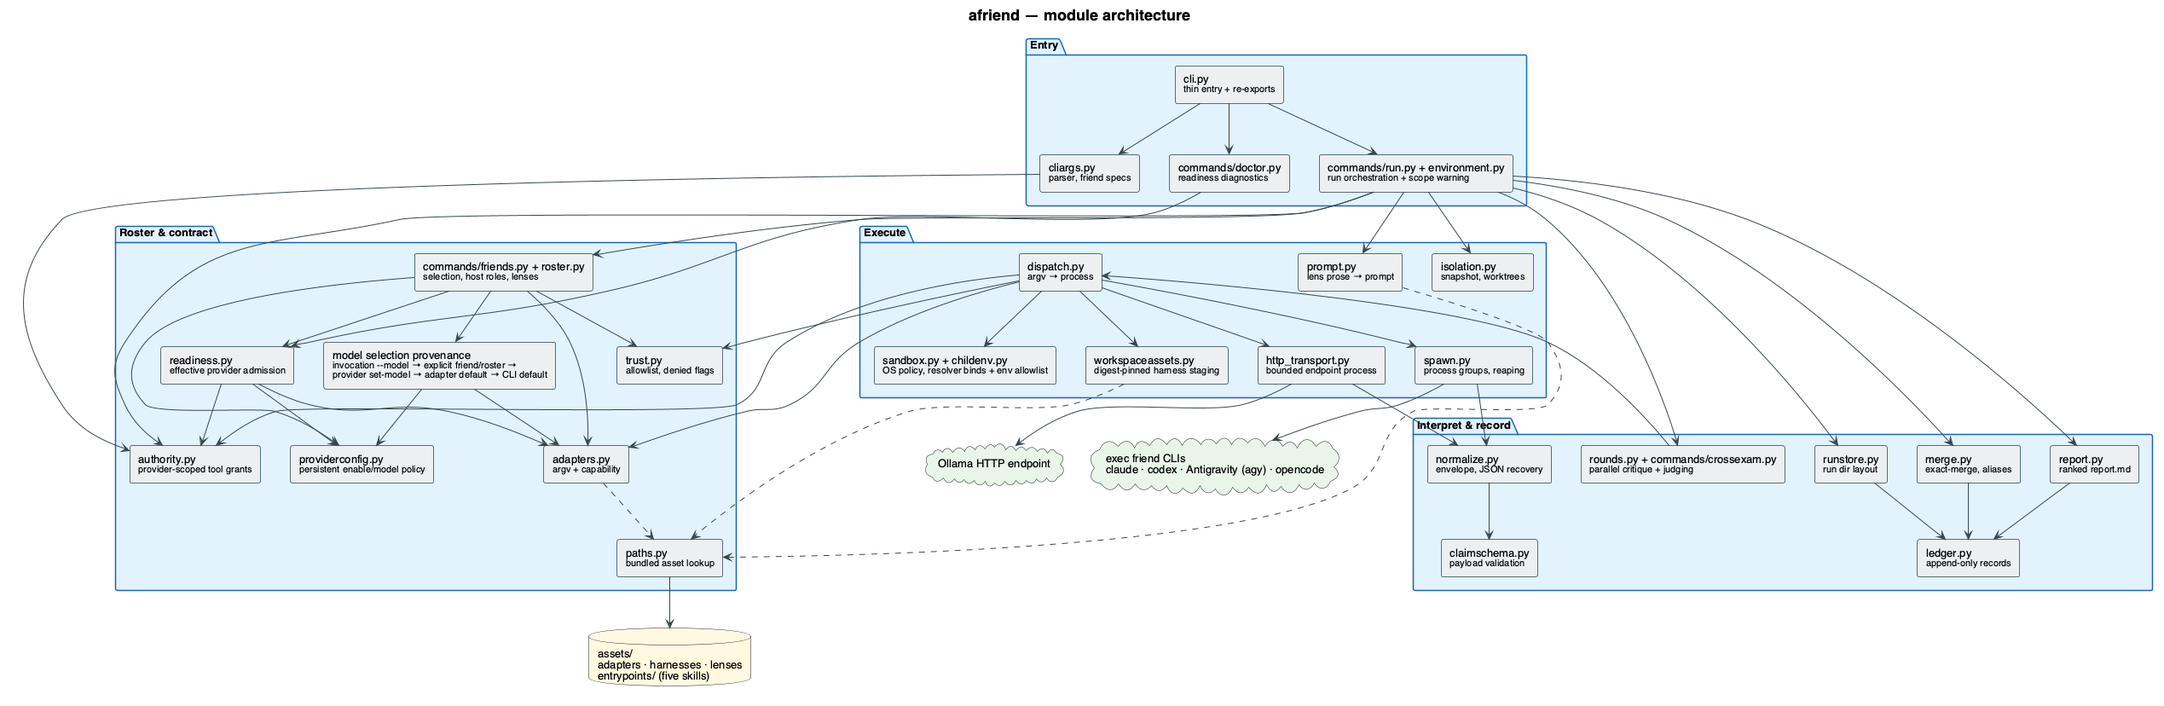
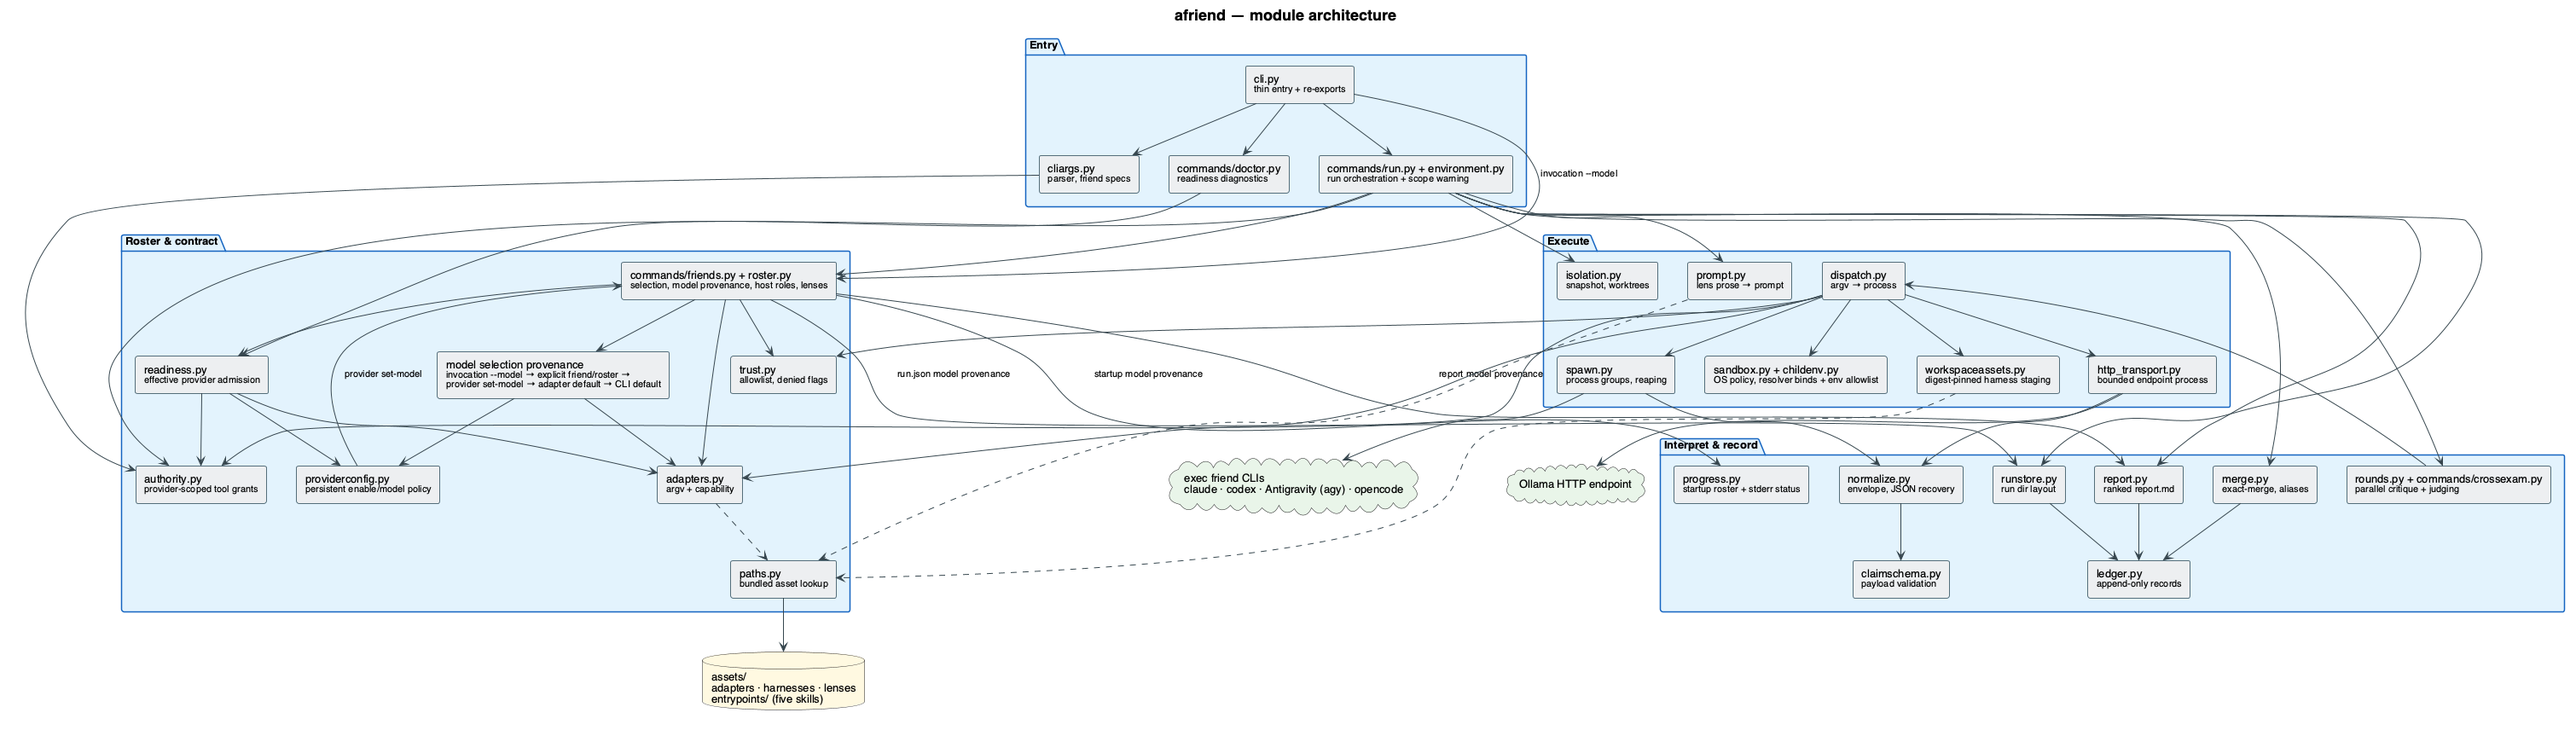
docs: clarify unset model provenance

Changed region(s): [[0.0311, 0.0, 0.9961, 0.8454], [0.249, 0.8756, 0.3735, 0.9662]]

diff --git a/tests/test_docs.py b/tests/test_docs.py
@@ -635,6 +635,32 @@ def test_live_markdown_preserves_model_selection_provenance_contract():
     assert troubleshooting_link in index
 
 
+def test_live_model_provenance_docs_cover_unset_opencode_and_the_startup_flow():
+    readme = REPO.joinpath("README.md").read_text()
+    router = (AFRIEND / "SKILL.md").read_text()
+    modes = (AFRIEND / "references" / "modes.md").read_text()
+    component_source = REPO.joinpath("docs", "architecture", "components.puml").read_text()
+
+    unset_opencode = "OpenCode CLI default (no --model passed; exact model not verified)"
+    for markdown in (readme, router, modes):
+        assert unset_opencode in markdown
+
+    assert "built-in default" in readme
+    assert "`--ignore-user-config`" in readme
+    assert "exact backend model remains unverified" in readme
+
+    for flow in (
+        "commands/friends.py + roster.py\\n<size:11>selection, model provenance, host roles, lenses</size>",
+        "progress.py",
+        "CLI --> ROSTER : invocation --model",
+        "PCONFIG --> ROSTER : provider set-model",
+        "ROSTER --> PROGRESS : startup model provenance",
+        "ROSTER --> STORE : run.json model provenance",
+        "ROSTER --> REPORT : report model provenance",
+    ):
+        assert flow in component_source
+
+
 def test_shipped_docs_state_the_one_friend_mode_contract_exactly():
     readme = " ".join(REPO.joinpath("README.md").read_text().lower().split())
     skill = " ".join((AFRIEND / "SKILL.md").read_text().lower().split())

diff --git a/README.md b/README.md
@@ -10,7 +10,7 @@
 [![Python](https://img.shields.io/badge/python-3.11%2B-blue)](pyproject.toml)
 [![Dependencies](https://img.shields.io/badge/runtime%20deps-none-brightgreen)](pyproject.toml)
 [![License](https://img.shields.io/badge/license-MIT-green)](LICENSE)
-[![Tests](https://img.shields.io/badge/tests-2296-brightgreen)](tests/)
+[![Tests](https://img.shields.io/badge/tests-2297-brightgreen)](tests/)
 
 It automates a workflow you may already do by hand: run a review, paste the
 findings into a different model, ask whether they hold up, carry the argument
@@ -292,6 +292,8 @@ when its generic CLI default is not the review you intend:
 afriend run spec.md --friend opencode:security:openai/gpt-5.6-sol \
   --allow-external-tools=opencode
 ```
+
+Without an explicit OpenCode model, the startup record says `OpenCode CLI default (no --model passed; exact model not verified)`. When its model is unset, Codex uses its built-in default because afriend invokes Codex with `--ignore-user-config`; the exact backend model remains unverified.
 
 > ⚠ `--friend` **replaces** discovery rather than adding to it. One
 > `--friend` flag means a one-friend roster. A `report` with one friend is

diff --git a/plugins/afriend/skills/afriend/references/modes.md b/plugins/afriend/skills/afriend/references/modes.md
@@ -370,6 +370,8 @@ afriend run spec.md --friend opencode:security:openai/gpt-5.6-sol \
   --allow-external-tools=opencode
 ```
 
+Without an explicit model, OpenCode is recorded as `OpenCode CLI default (no --model passed; exact model not verified)`: that is a provider CLI default, not a verified backend identity.
+
 `--enable-provider NAME` and `--disable-provider NAME` override persistent
 settings for one automatically discovered run. Disabled providers are not
 probed. Readiness is assessed before `--max-friends`: only `ready` providers

diff --git a/src/afriend/assets/entrypoints/afriend/references/modes.md b/src/afriend/assets/entrypoints/afriend/references/modes.md
@@ -370,6 +370,8 @@ afriend run spec.md --friend opencode:security:openai/gpt-5.6-sol \
   --allow-external-tools=opencode
 ```
 
+Without an explicit model, OpenCode is recorded as `OpenCode CLI default (no --model passed; exact model not verified)`: that is a provider CLI default, not a verified backend identity.
+
 `--enable-provider NAME` and `--disable-provider NAME` override persistent
 settings for one automatically discovered run. Disabled providers are not
 probed. Readiness is assessed before `--max-friends`: only `ready` providers

diff --git a/plugins/afriend/skills/afriend/SKILL.md b/plugins/afriend/skills/afriend/SKILL.md
@@ -245,6 +245,8 @@ afriend run spec.md --friend opencode:security:openai/gpt-5.6-sol \
   --allow-external-tools=opencode
 ```
 
+Without an explicit model, OpenCode is recorded as `OpenCode CLI default (no --model passed; exact model not verified)`: that is a provider CLI default, not a verified backend identity.
+
 For one run, `--enable-provider NAME` and `--disable-provider NAME` override
 those defaults during automatic discovery. Disabled providers are not
 probed. A friend must be `ready` before it consumes `--max-friends` capacity:

diff --git a/src/afriend/assets/entrypoints/afriend/SKILL.md b/src/afriend/assets/entrypoints/afriend/SKILL.md
@@ -245,6 +245,8 @@ afriend run spec.md --friend opencode:security:openai/gpt-5.6-sol \
   --allow-external-tools=opencode
 ```
 
+Without an explicit model, OpenCode is recorded as `OpenCode CLI default (no --model passed; exact model not verified)`: that is a provider CLI default, not a verified backend identity.
+
 For one run, `--enable-provider NAME` and `--disable-provider NAME` override
 those defaults during automatic discovery. Disabled providers are not
 probed. A friend must be `ready` before it consumes `--max-friends` capacity:
